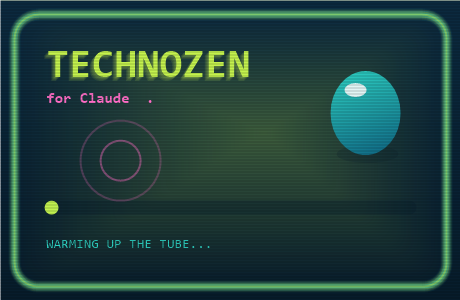
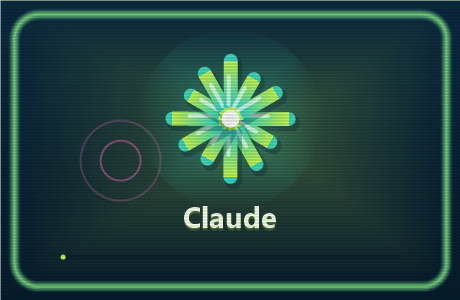
Loading card 1.2.2: the Claude mark reimagined as glossy water rays, wordmark, no text chatter

diff --git a/installer/TechnozenInstaller.cs b/installer/TechnozenInstaller.cs
@@ -249,13 +249,12 @@ class Watcher : ApplicationContext
         foreach (var w in Native.WindowsOf(pid))
         {
             if (Native.IsDevToolsTitle(w.Key)) devtools = w.Value;
-            else if (mainWindow == IntPtr.Zero) { mainWindow = w.Value; Native.ShowWindow(mainWindow, Native.SW_HIDE); loader.Status("hiding the white..."); Log("main window '" + w.Key + "' hidden"); }
+            else if (mainWindow == IntPtr.Zero) { mainWindow = w.Value; Native.ShowWindow(mainWindow, Native.SW_HIDE); Log("main window '" + w.Key + "' hidden"); }
         }
         if (devtools != IntPtr.Zero && !injecting)
         {
             injecting = true;
             Native.SetWindowPos(devtools, IntPtr.Zero, -32000, -32000, 0, 0, Native.SWP_NOSIZE | Native.SWP_NOZORDER | Native.SWP_NOACTIVATE); // parked off-screen, still focusable
-            loader.Status("pouring the theme in...");
             Log("devtools window found after " + since.ElapsedMilliseconds + " ms, injecting");
             var t = new Thread(() =>
             {
@@ -276,7 +275,6 @@ class Watcher : ApplicationContext
         Log("finish ok=" + ok + " after " + since.ElapsedMilliseconds + " ms");
         handled[pid] = true;
         if (mainWindow != IntPtr.Zero) { Native.ShowWindow(mainWindow, Native.SW_SHOW); Native.SetForegroundWindow(mainWindow); }
-        loader.Status(ok ? "ready" : "could not apply; opening Claude");
         loader.FadeOut();
         pid = 0; injecting = false;
     }
@@ -319,7 +317,6 @@ class Loader : Form
     readonly System.Windows.Forms.Timer anim = new System.Windows.Forms.Timer { Interval = 33 };
     readonly List<float[]> ripples = new List<float[]>(); // x, y, radius, age
     readonly Stopwatch clock = Stopwatch.StartNew();
-    string status = "warming up the tube...";
     bool fading;
 
     public Loader()
@@ -329,7 +326,7 @@ class Loader : Form
         ClientSize = new Size(460, 300);
         TopMost = true;
         ShowInTaskbar = true;
-        Text = "Claude (Technozen)";
+        Text = "Claude";
         BackColor = Ink;
         DoubleBuffered = true;
         using (var path = Rounded(new Rectangle(0, 0, Width, Height), 30)) Region = new Region(path);
@@ -345,7 +342,6 @@ class Loader : Form
         get { var cp = base.CreateParams; cp.ExStyle |= 0x08000000 | 0x00000008; return cp; } // WS_EX_NOACTIVATE | WS_EX_TOPMOST
     }
 
-    public void Status(string s) { status = s; }
     public void FadeOut() { fading = true; }
 
     void Tickle()
@@ -375,28 +371,33 @@ class Loader : Form
             for (int i = 6; i >= 1; i--)
                 using (var pen = new Pen(Color.FromArgb(18 * (7 - i), i % 2 == 0 ? Aqua : Lime), i * 2)) g.DrawPath(pen, path);
         }
-        // Title with a soft glow, then the crisp text.
-        using (var big = new Font("Consolas", 30, FontStyle.Bold))
+        // The Claude mark, reimagined as water: twelve glossy rays, breathing and turning slowly,
+        // each a rounded capsule of aqua-to-lime with a specular highlight along its upper-left edge.
+        float cx = Width / 2f, cy = 118 + (float)Math.Sin(t * 2.2) * 4, breathe = 1f + 0.04f * (float)Math.Sin(t * 2.2);
+        using (var halo = new PathGradientBrush(new[] { new PointF(cx - 90, cy - 90), new PointF(cx + 90, cy - 90), new PointF(cx + 90, cy + 90), new PointF(cx - 90, cy + 90) }))
+        { halo.CenterColor = Color.FromArgb(90, Aqua); halo.SurroundColors = new[] { Color.FromArgb(0, Aqua) }; g.FillEllipse(halo, cx - 90, cy - 90, 180, 180); }
+        for (int i = 0; i < 12; i++)
         {
-            for (int i = 4; i >= 1; i--) using (var b = new SolidBrush(Color.FromArgb(30, Lime))) g.DrawString("TECHNOZEN", big, b, 40 - i, 40 + i);
-            using (var b = new SolidBrush(Lime)) g.DrawString("TECHNOZEN", big, b, 40, 40);
+            double a = (i * 30 + t * 12) * Math.PI / 180; float len = (i % 3 == 0 ? 58 : i % 3 == 1 ? 46 : 52) * breathe;
+            float x0 = cx + (float)Math.Cos(a) * 11, y0 = cy + (float)Math.Sin(a) * 11, x1 = cx + (float)Math.Cos(a) * len, y1 = cy + (float)Math.Sin(a) * len;
+            using (var sh = new Pen(Color.FromArgb(70, Ink), 17) { StartCap = LineCap.Round, EndCap = LineCap.Round }) g.DrawLine(sh, x0 + 3, y0 + 4, x1 + 3, y1 + 4);
+            using (var body = new Pen(new LinearGradientBrush(new PointF(x0, y0), new PointF(x1, y1), Aqua, Lime), 14) { StartCap = LineCap.Round, EndCap = LineCap.Round }) g.DrawLine(body, x0, y0, x1, y1);
+            using (var hi = new Pen(Color.FromArgb(170, 255, 255, 255), 4) { StartCap = LineCap.Round, EndCap = LineCap.Round }) g.DrawLine(hi, x0 - 2, y0 - 3, x0 + (x1 - x0) * 0.6f - 2, y0 + (y1 - y0) * 0.6f - 3);
         }
-        using (var small = new Font("Consolas", 11, FontStyle.Bold))
-        using (var b = new SolidBrush(Pink)) g.DrawString("for Claude  " + new string('.', 1 + (int)(t * 3) % 3), small, b, 44, 90);
-        using (var small = new Font("Consolas", 10))
-        using (var b = new SolidBrush(Aqua)) g.DrawString(status.ToUpperInvariant(), small, b, 44, 236);
-        // The water drop, bobbing, with its highlight.
-        float bob = (float)Math.Sin(t * 3) * 7;
-        var drop = new RectangleF(330, 70 + bob, 70, 84);
-        using (var sh = new SolidBrush(Color.FromArgb(60, Ink))) g.FillEllipse(sh, drop.X + 6, drop.Bottom - 10, 62, 18);
-        using (var body = new LinearGradientBrush(drop, Aqua, Color.FromArgb(14, 100, 130), 70f)) g.FillEllipse(body, drop);
-        using (var hi = new SolidBrush(Color.FromArgb(220, 255, 255, 255))) g.FillEllipse(hi, drop.X + 14, drop.Y + 12, 22, 14);
-        // Progress: fills over about eight seconds, colors drifting lime -> aqua -> pink -> amber.
-        var bar = new Rectangle(44, 200, Width - 88, 14);
-        using (var path = Rounded(bar, 7)) using (var b = new SolidBrush(Color.FromArgb(90, Ink))) g.FillPath(b, path);
-        float frac = Math.Min(1f, t / 8f); var fill = new Rectangle(bar.X, bar.Y, Math.Max(14, (int)(bar.Width * frac)), bar.Height);
+        using (var core = new SolidBrush(Color.FromArgb(235, 255, 255, 255))) g.FillEllipse(core, cx - 9, cy - 9, 18, 18);
+        // The wordmark, wet: a soft glow under it, then the crisp letters.
+        using (var font = new Font("Segoe UI", 22, FontStyle.Bold))
+        using (var fmt = new StringFormat { Alignment = StringAlignment.Center })
+        {
+            for (int i = 3; i >= 1; i--) using (var b = new SolidBrush(Color.FromArgb(28, Lime))) g.DrawString("Claude", font, b, cx, 196 + i, fmt);
+            using (var b = new SolidBrush(Color.FromArgb(244, 255, 228))) g.DrawString("Claude", font, b, cx, 196, fmt);
+        }
+        // A thin progress line, filling over about six seconds, colors drifting lime -> aqua -> pink -> amber.
+        var bar = new Rectangle(60, 254, Width - 120, 5);
+        using (var path = Rounded(bar, 2)) using (var b = new SolidBrush(Color.FromArgb(110, Ink))) g.FillPath(b, path);
+        float frac = Math.Min(1f, t / 6f); var fill = new Rectangle(bar.X, bar.Y, Math.Max(5, (int)(bar.Width * frac)), bar.Height);
         Color[] cycle = { Lime, Aqua, Pink, Amber }; Color c1 = cycle[(int)(t / 1.5f) % 4], c2 = cycle[((int)(t / 1.5f) + 1) % 4];
-        using (var path = Rounded(fill, 7)) using (var b = new LinearGradientBrush(bar, c1, c2, 0f)) g.FillPath(b, path);
+        using (var path = Rounded(fill, 2)) using (var b = new LinearGradientBrush(bar, c1, c2, 0f)) g.FillPath(b, path);
         // Ripples from the mouse.
         foreach (var r in ripples) using (var pen = new Pen(Color.FromArgb((int)(160 * (1 - r[3])), Pink), 2)) g.DrawEllipse(pen, r[0] - r[2], r[1] - r[2], r[2] * 2, r[2] * 2);
         // Scanlines drifting down, and a slow bright band sweeping like a CRT refresh.

diff --git a/installer/build_exe.py b/installer/build_exe.py
@@ -5,7 +5,7 @@ import pathlib
 import subprocess
 import sys
 
-VERSION = "1.2.1"   # shown in the installer's title bar and used for the release file name
+VERSION = "1.2.2"   # shown in the installer's title bar and used for the release file name
 HERE = pathlib.Path(__file__).parent
 SNIPPET = HERE.parent / "dist" / "technozen.snippet.js"
 CSC = pathlib.Path(r"C:\Windows\Microsoft.NET\Framework64\v4.0.30319\csc.exe")
